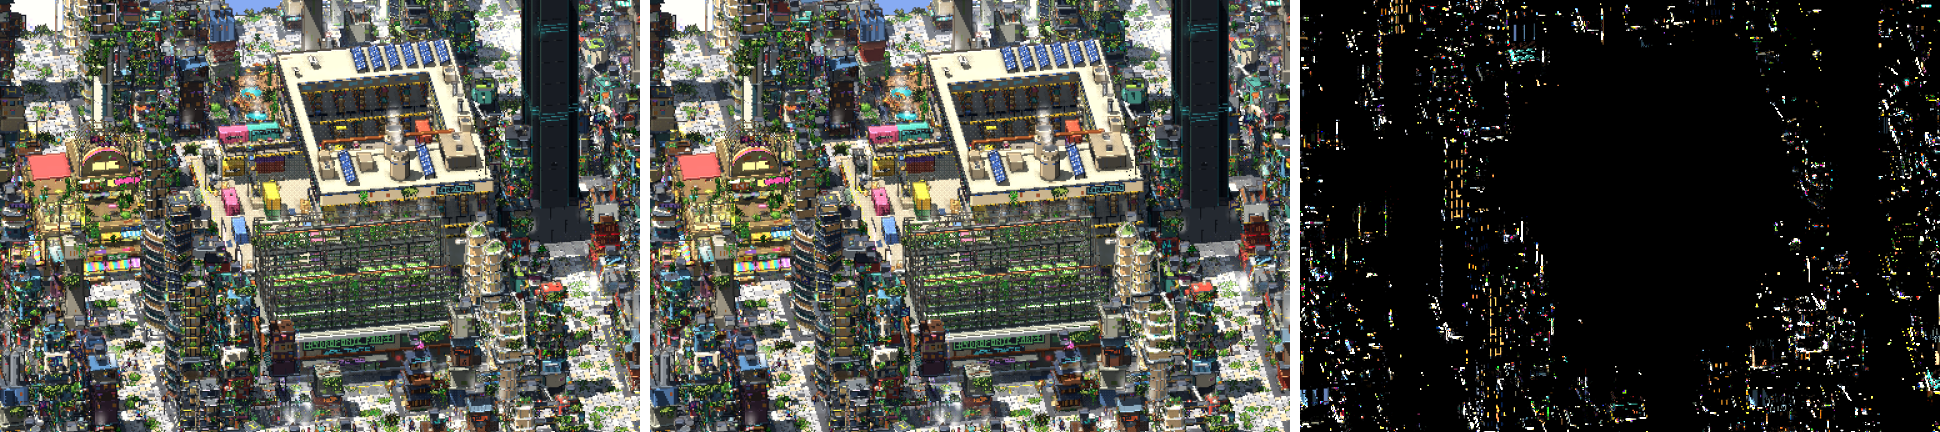
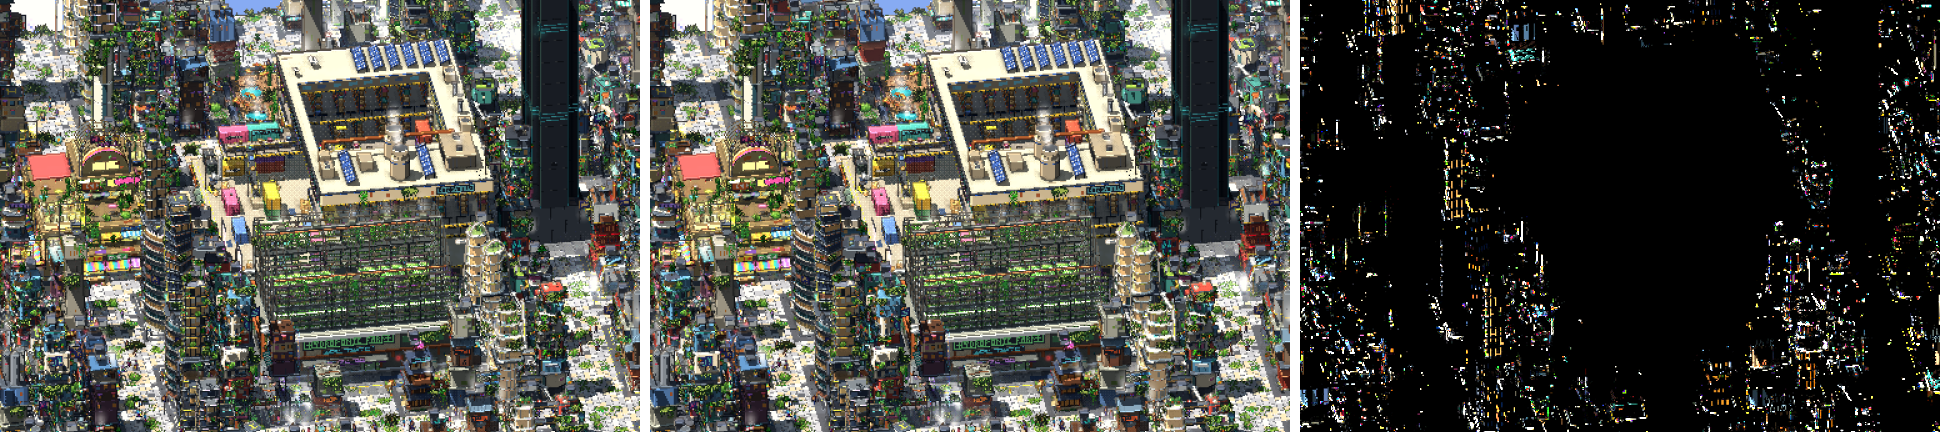
Round 9: item 5 crops and report

diff --git a/tools/perf/OVERNIGHT4.md b/tools/perf/OVERNIGHT4.md
@@ -11,7 +11,9 @@ Base: main at 6da3dbf. Work branch locally `wip/recipes`, pushed with `git push 
 | 2 Generation in a Web Worker | done | see git log ("Round 9 item 2") | `recipe_proof.py <scene> --worker` 0 differ on maxcity 2025, dense 361, megas 267, city 227, 30 pods; `worker_edit.py city --edits 12` 0 differ (8 by the worker, 4 taken back to the page); `diff --base 6da3dbf --quick --only city` 25 captures 0 problems |
 | 3 Walking network off the main thread | partly (see below) | see git log ("Round 9 item 3") | `worker_edit.py city --edits 12`: network hash after all edits identical, 8 walking maps taken from the worker; `recipe_proof.py --worker`: walking maps byte-identical (city, dense); `diff --base 6da3dbf --quick --only city` 0 problems |
 | 4 Drop the plots' own geometry | done (one named stall left) | see git log ("Round 9 item 4") | `diff --base 6da3dbf --quick` city 25, dense 13, megas 15 captures 0 problems; `plotmem_check.py <scene> --same` (the same edits with and without letting go of the arrays: every plot and every merged block hashed) 0 differ on city (231 plots, 33 blocks), dense (399, 54), megas (267, 40); maxcity JS heap after play 2,519 MB kept, 1,847 MB let go (-672 MB) |
-| 5 to 7 | not started | | |
+| 5 Detail tiers (cheat) | built, default on; owner to approve | commits "item 5, part 1" and "stand-in tier policy" | `PERF_CAND_INIT="window.__TIER_OFF = true;"` against 6da3dbf: city 25, dense 13, megas 15 captures 0 problems; the tier machinery alone (stand-in laid out from the same buckets, nothing left out, all blocks on it, `__TIER_ALL` with `__TIER_KEEPALL`) 0 pixel differences on dense; static cache `tiers_cache_check.py dense` reuse against every 0 pixels differ in 6 legs |
+| 6 Never-seen job | first part only (helper agent continues on wip/recipes-b) | "stand-in tier policy ..." commit | `nv_compare.py dense --plots 1 --yaws 12 --np 4`: removed sets identical on 4 plots, pixels made 92 to 100% of the old way |
+| 7 Load from recipes | built, default on with a worker | same commit | `load_check.py city --old-order`: every plot, region, megastructure, network node, place and network hash identical to the old load |
 
 ## Item 0: baseline (main 6da3dbf, software renderer, counts only)
 
@@ -101,6 +103,23 @@ Other things this found: `recipeGen` used to empty and refill the map `cells` wh
 Result on maxcity (memcheck, JS heap after a forced collection): 2,519 MB with the arrays kept, 1,847 MB with them let go after a short play (-672 MB, 27%); 2,024 of 2,025 plots are let go 600 frames after load. It stays above the plan's "most of 1,065 MB" because the index arrays (140 MB), the glow data, the recipes and draws (a few KB a plot) and the per-plot walking maps (27 KB a plot, were there already) stay, and because 'load' is measured before the first merges. Graphics bytes unchanged (1,640 MB).
 The one stall left, named: placing a luxury ('high' zone) pod with `addLift` makes the pod on the page (`refresh` -> `rebuildCell`), and each supporting neighbor whose arrays are let go is made again on the page for its wall triangles (`wallGap`): up to four plots of generation in that one call (3 slow restores in the city edit script, 1 in dense). The same pod through the staged path would send the neighbors to the worker. In the played flows of `plotmem_check.py maxcity` (a section, a commercial pod, a demolition, turns, pans, zooms) there were 0 slow restores.
 Not done: the `toon(0x2a6a5a), toon(0xb0803a)` leak in the night-market stalls stays (a plot made again on the page makes two more never-freed materials per stall; the worker's own copies do not matter). Hoisting the two would shift every later material id, and a builder picks industrial window colors by `mat.id`, so it would change the picture.
+
+## Item 5: detail tiers (a cheat; for you to approve)
+
+What it is. A plot has two geometries: full (today's) and a stand-in, cut from what the plot's generation just made (so it costs no random draws and is the same from a recipe): the pieces that are fine details (sticks, tiny bits: aFine) or have no side as long as `TIER.small` = .30 world units are left out, lights are always kept, and a small piece that touches a lit pane (its frame, a mullion across it) is kept too. By the piece classes of the round 7 probe (`classOf`, tools/perf/geo20f.js): sticks, thin plates and small boxes and small round parts go, windows, other glowing parts and the main structure stay. Which blocks (the 3 by 3 plots merged together) draw the stand-in: when the view is closer than zoom `TIER.zs` = 24 those whose middle is more than the view's reach plus 12 units away from the middle of the view (and any beyond the 36 nearest); when it is farther than 24, all of them (the zoom runs from 5 to 30, so at the farthest everything is stand-in). A block changes tier by being merged again from the other geometry; the old merge stays drawn until the new one is made, which waits for the worker to send the plots' arrays. The swap is held until the view moves (turning, tilting, zooming, panning) and happens in a still view only after 120 frames of waiting, so a change does not appear in the middle of a still frame; a block goes back to the stand-in after being out for 180 frames. A tier swap notes the block's box as an edit rectangle for the static cache (a merge is otherwise quiet). Tests (overlay): "full detail everywhere (as before)", "show tiers (stand-ins tinted red)", "stand-in tier everywhere (to measure)"; for tools `__TIER_OFF`, `__TIER_SHOW`, `__TIER_ALL`, `__TIER_SMALL`.
+Cost per plot (CPU arrays, the same bytes as on the card), dense scene, 271 plots, `tiers_measure.py`: full 5,204 triangles and 0.33 MB, stand-in 2,419 triangles (46%) and 0.15 MB (47%): empty plots 78% (0.05 to 0.04 MB), industrial 34% (0.33 to 0.12), commercial 39% (0.52 to 0.19), low 47% (0.63 to 0.30), luxury 71% (0.53 to 0.37). Maxcity (2,025 plots), graphics buffers after the whole city had changed tier at zoom 30, `tiers_gfx.py`: 513 MB against 951 MB with the tiers off (-46%), graphics 699 MB against 1,137 MB; the triangles of a drawn frame (static cache off) 11.1 million against 14.1 million (-21%; round 6's size culling already drops sub-pixel triangles from the draw, so the drawn count falls less than the memory does). That run was with the first, more generous stand-in (45% of the triangles); the figures in the dense table are the final rule.
+Triangles drawn, dense (static cache: a still view draws only the live 155,668 triangles both ways), turning: zoom 30 1,042,940 off against 799,492 on (-23%), zoom 22 1,157,411 against 1,090,959 (-6%), zoom 15 934,819 against 913,982 (-2%).
+Crops (tools/perf/overnight4/tiers_dense_z*_h*_still|turn.png, each: tiers off | tiers on | difference x4; tiers_dense_show.png is the show-tiers picture; tiers_dense.json has the numbers). Pixels that differ of 921,600, day then night: still zoom 15 4,881 and 8,238; zoom 22 37,431 and 59,488; zoom 30 113,257 and 191,622; turning zoom 15 11,472 and 20,068; zoom 22 50,630 and 76,748; zoom 30 93,051 and 159,796.
+What to look for. At night the window grids read brighter at the farthest zoom (the thin dark fittings in front of the panes are gone), railings and cables thin out, small rooftop fittings are missing, and at zoom 22 and farther the whole view is stand-in. Popping: after zooming in past 24 or panning, a block nearer than the margin is made again by the worker (a plot takes a worker generation, about the time of a placement's generation, some 50 ms on a laptop core, nine plots a block), merged in steps, and swapped in while the view moves; in a still view the change shows up within 2 seconds of the view stopping. The margin (12 units, about three plots) covers a slow pan; a fast pan will show stand-ins at the edge of the view for a second or two.
+What I would check first: the farthest zoom at night. `TIER.small`, `TIER.zs`, `TIER.margin` and `TIER.maxFull` are the knobs.
+
+## Item 6: never-seen job (first part)
+
+Built in js/neverseen.js: each view draws and scatters only the pixels that can hold a triangle not seen yet (a sphere round each undecided triangle, the same camera shifted by whole pixels with the viewport so the picture is the same one), the map is read back every 24 views and then at growing intervals to update what is decided, and the job stops early when nothing is left. Removed sets identical on the 4 plots checked (one a zone, 12 turns by 4 tilts, 48 views): 23,348 of 23,973 triangles on a low plot, 10,962 of 11,346 mid, 2,421 of 2,432 high, 5,204 of 5,260 industrial, 0 differ; pixels made 96, 100, 92, 96% of the old way; no early stop (every plot has triangles that are never seen). So this is a few percent, not the large factor the plan hoped for: the cost is the pixels of the views and the views are fixed. A helper agent (wip/recipes-b, OVERNIGHT4B.md) takes the rest of item 6.
+
+## Item 7: loading a saved city from recipes (js/loadcity.js)
+
+When the worker is there, a saved city is made from recipes: the worker starts as soon as recipe.js is read; plots are asked for nearest the camera first, put in the world a few milliseconds a frame as they come; the order of the old load (plain plots, pods, air-filter towers, megastructures, then the whole-city work: a region's plants and lights as soon as its plots are in, the walking network and people at the end); a click edits nothing until it is done; the old load is behind "load on the main thread (as before)" and runs when there is no worker, it does not come up in 20 s, or it fails. Check (`load_check.py city --old-order`): every plot's arrays (all but the random detail and flicker ids), the regions, megastructures, walking network nodes, places and network hash are identical to the old load. In the nearest-first order 4 of 227 plots differ in the shape of a rounded box by a few thousandths: `roundedBox` takes the shape of the first plot that asked for a size to two decimals (a first-asker rule that is in the old code too), so the shape depends on the order plots are made in. The first plot is in the world 0.8 s after the page starts in the software renderer; timing of the first frame and of a settled city is for your machine (the measurement script). The harness keeps the old load (no worker there).
 
 ## Not yet done
 
